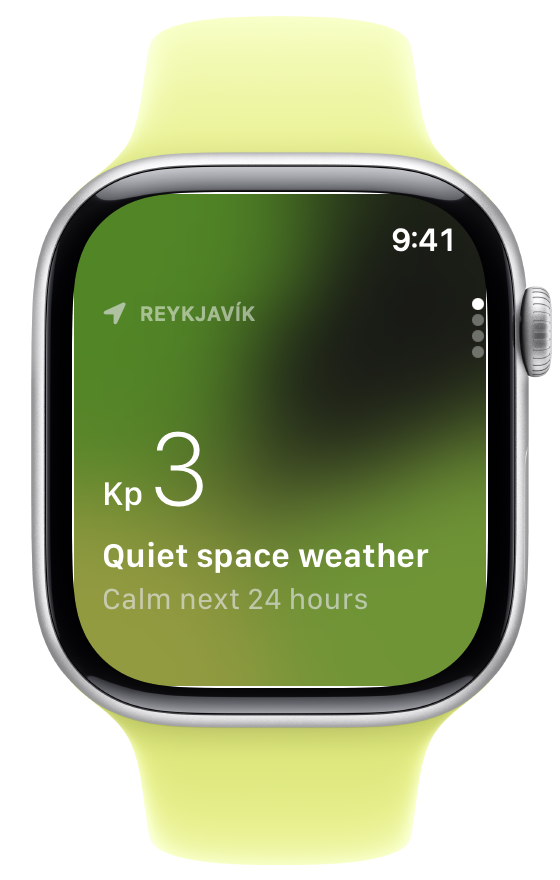
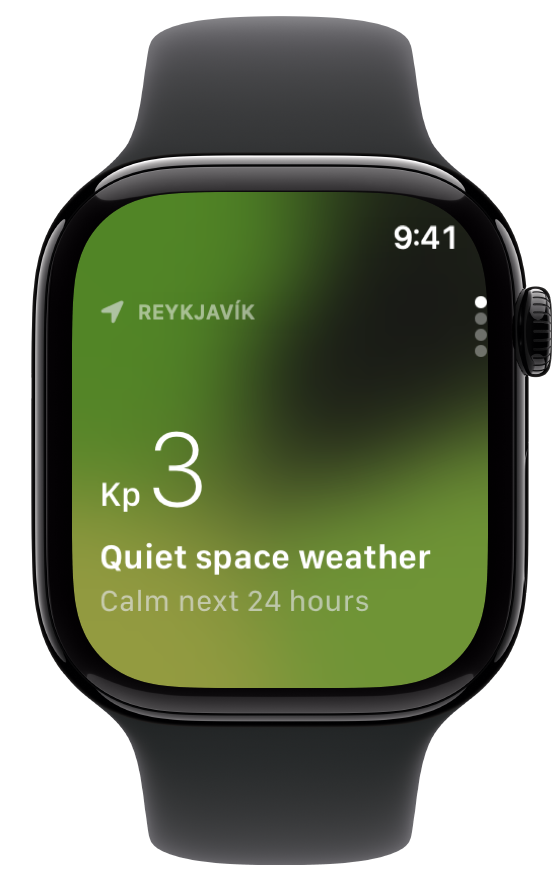
Site: fix a crash in the chat orbs loop (hidden friends were drawn without a time), drawn aurora in the Aurora card instead of NOAA's chart, faster one-by-one orbs, Apple Watch S11 Jet Black with black Sport Band

diff --git a/site.js b/site.js
@@ -365,7 +365,7 @@ const pals = [...document.querySelectorAll(".pal")].map((el, i) => {
   el.innerHTML = '<canvas width="112" height="112"></canvas><svg viewBox="-100 -100 200 200" aria-hidden="true"><path d=""/></svg>';
   const c = BALL[[0, 1, 3, 2][i] ?? 0].map(rgb);
   el.style.setProperty("--g", rgbOf(c[1]));
-  return { el, ctx: el.querySelector("canvas").getContext("2d"), path: el.querySelector("path"), face: new LivingFace(), c, out: new Spring(9, 5.6), t: 5 * i, talk: 0, at: [0.3, 1.35, 2.4, 3.45][i] ?? 1, k: 0, side: i < 2 ? 1 : -1 };
+  return { el, ctx: el.querySelector("canvas").getContext("2d"), path: el.querySelector("path"), face: new LivingFace(), c, out: new Spring(9, 5.6), t: 5 * i, talk: 0, at: [0.3, 0.95, 1.6, 2.25][i] ?? 1, k: 0, side: i < 2 ? 1 : -1 };
 });
 let palsOn = false, palDrawn = 0, palsSince = 0, palPhone = null;
 if (pals.length) {
@@ -429,6 +429,7 @@ function stepPals(dt) {
   if (any && palBall && palDrawn > 0.1) {
     palDrawn = 0;
     for (const p of pals) {
+      if (!(p.k > 0) || p.ct === undefined) { continue; }   // a hidden friend is not drawn (and never breaks the frame)
       palBall.draw({ time: p.ct, energy: 0.1, roll: [0.3 * Math.sin(p.t * 0.31), 0.2 * Math.sin(p.t * 0.23)], cMain: p.c[1], cLow: p.c[3], cMid: p.c[2], cHigh: p.c[0] });
       p.ctx.clearRect(0, 0, 112, 112); p.ctx.drawImage(palBall.canvas, 0, 0, 112, 112);
     }
@@ -802,3 +803,51 @@ live();
 // A slow device must not hold the words back.
 setTimeout(arrived, 4000);
 setInterval(() => { if (!document.hidden) { live(); } }, 5 * 60e3);
+
+
+// ---- The Aurora card: a calm drawn aurora instead of NOAA's chart (Dima, 11-26). Plain 2D canvas, no library:
+// three soft curtains of thin rays (one small gradient picture each, stretched), green into blue, drifting slowly. ----
+(() => {
+  const c = document.querySelector("#auroraart");
+  if (!c) { return; }
+  const ctx = c.getContext("2d"), W = c.width, H = c.height;
+  const ray = (rgb) => {               // one ray: clear at the top, bright low, a quick fade at the bottom edge
+    const s = document.createElement("canvas"); s.width = 1; s.height = 128;
+    const x = s.getContext("2d"), g = x.createLinearGradient(0, 0, 0, 128);
+    g.addColorStop(0, `rgba(${rgb},0)`); g.addColorStop(0.55, `rgba(${rgb},.35)`); g.addColorStop(0.86, `rgba(${rgb},.95)`); g.addColorStop(1, `rgba(${rgb},0)`);
+    x.fillStyle = g; x.fillRect(0, 0, 1, 128); return s;
+  };
+  const bands = [
+    { img: ray("90,255,170"), base: 0.52, amp: 0.07, k: 1.3, sp: 0.045, len: 0.46, a: 0.95 },
+    { img: ray("50,200,255"), base: 0.40, amp: 0.06, k: 2.1, sp: -0.035, len: 0.32, a: 0.7 },
+    { img: ray("150,255,140"), base: 0.62, amp: 0.05, k: 0.9, sp: 0.028, len: 0.36, a: 0.6 }
+  ];
+  const stars = Array.from({ length: 34 }, () => [Math.random() * W, Math.random() * H * 0.7, Math.random() * 1.1 + 0.3, Math.random() * 6.28]);
+  const sky = ctx.createLinearGradient(0, 0, 0, H); sky.addColorStop(0, "#02060f"); sky.addColorStop(0.7, "#061a2b"); sky.addColorStop(1, "#0a2a36");
+  let on = false, last = 0;
+  new IntersectionObserver(([e]) => { on = e.isIntersecting; if (on) { requestAnimationFrame(draw); } }).observe(c);
+  function draw(ms) {
+    if (!on || document.hidden) { return; }
+    requestAnimationFrame(draw);
+    if (ms - last < 40) { return; }                       // 25 frames a second are plenty for a slow sky
+    last = ms;
+    const t = ms / 1000;
+    ctx.globalCompositeOperation = "source-over"; ctx.fillStyle = sky; ctx.fillRect(0, 0, W, H);
+    for (const [x, y, r, p] of stars) { ctx.fillStyle = `rgba(255,255,255,${0.35 + 0.3 * Math.sin(t * 1.3 + p)})`; ctx.fillRect(x, y, r, r); }
+    ctx.globalCompositeOperation = "lighter";
+    for (const b of bands) {
+      for (let x = 0; x < W; x += 2) {
+        const u = x / W;
+        const y = H * (b.base + b.amp * Math.sin(u * b.k * 6.283 + t * b.sp * 6.283) + 0.025 * Math.sin(u * 11 + t * 0.6));
+        const len = H * b.len * (0.8 + 0.2 * Math.sin(u * 7 + t * 0.4));
+        ctx.globalAlpha = b.a * (0.55 + 0.45 * Math.sin(u * 37 + t * 0.9) * Math.sin(u * 13 - t * 0.5));
+        ctx.drawImage(b.img, x, y - len, 2.2, len * 1.08);
+      }
+    }
+    ctx.globalAlpha = 1; ctx.globalCompositeOperation = "source-over";
+    // a dark line of hills at the bottom
+    ctx.fillStyle = "#01040a"; ctx.beginPath(); ctx.moveTo(0, H);
+    for (let x = 0; x <= W; x += 8) { ctx.lineTo(x, H * (0.9 - 0.05 * Math.sin(x / W * 5.5 + 0.6) - 0.025 * Math.sin(x / W * 17))); }
+    ctx.lineTo(W, H); ctx.fill();
+  }
+})();

diff --git a/index.html b/index.html
@@ -27,7 +27,7 @@
   <link rel="icon" type="image/png" sizes="192x192" href="img/favicon-192.png">
   <link rel="apple-touch-icon" href="img/apple-touch-icon.png">
   <script type="application/ld+json">{"@context":"https://schema.org","@graph":[{"@type":"WebSite","@id":"https://heliotide.app/#site","name":"Heliotide","url":"https://heliotide.app/","inLanguage":"en"},{"@type":"MobileApplication","@id":"https://heliotide.app/#app","name":"Heliotide: Space Weather","url":"https://heliotide.app/","image":"https://heliotide.app/img/favicon-512.png","description":"Space weather in plain words: live K-index, solar flares, solar wind, aurora, alerts and earthquakes near you.","operatingSystem":"iOS 18 or later, iPadOS 18 or later","applicationCategory":"WeatherApplication","isAccessibleForFree":true,"offers":{"@type":"Offer","price":"0","priceCurrency":"USD"}}]}</script>
-  <link rel="stylesheet" href="site.css?v=20">
+  <link rel="stylesheet" href="site.css?v=22">
   <noscript><style>.soft, .family .m, [data-write], #hero .intro > *, #hero .show, #bar .word > span { opacity: 1 !important; filter: none !important; transform: none !important; } #status { display: none; }</style></noscript>
 </head>
 <body>
@@ -113,10 +113,10 @@
     <nav aria-label="Pages"><a href="support/">Support</a><a href="privacy/">Privacy Policy</a><a href="sources/">Data Sources</a></nav>
     <p class="love">Made with love in Ukraine <span role="img" aria-label="flag of Ukraine">🇺🇦</span></p>
   </footer>
-  <script src="base.js?v=20"></script>
-  <script src="shaders.js?v=20"></script>
-  <script src="face.js?v=20"></script>
-  <script src="app.js?v=20"></script>
-  <script src="site.js?v=20"></script>
+  <script src="base.js?v=22"></script>
+  <script src="shaders.js?v=22"></script>
+  <script src="face.js?v=22"></script>
+  <script src="app.js?v=22"></script>
+  <script src="site.js?v=22"></script>
 </body>
 </html>

diff --git a/app.js b/app.js
@@ -346,7 +346,7 @@ const CARDS = {
   </div></article>`,
   aurora: `<article class="card s2 c-aurora">${cardHead("aurora", "Aurora")}<div class="cb"><div class="pb">
     <div class="col bottom"><p class="vl"><span>34</span><small>%</small></p><p class="w20">Chance now</p><p class="cn">Look north, away from city lights.</p></div>
-    <div class="pic3 top"><div class="disc sq"><img src="https://services.swpc.noaa.gov/images/animations/ovation/north/latest.jpg" alt="Aurora over the northern hemisphere, live from NOAA" referrerpolicy="no-referrer" loading="lazy" draggable="false"><canvas id="aurorafilm" width="560" height="560" style="opacity:0"></canvas></div></div>
+    <div class="pic3 top"><div class="disc sq"><!-- NOAA's live picture is kept here, switched off (Dima, 11-26): <img src="https://services.swpc.noaa.gov/images/animations/ovation/north/latest.jpg"> --><canvas id="aurorafilm" width="560" height="560" hidden></canvas><canvas id="auroraart" width="320" height="320" role="img" aria-label="Aurora over the night sky"></canvas></div></div>
   </div></div></article>`,
   quakes: `<article class="card s2 c-map">${cardHead("quake", "Earthquakes")}${cmap("quake", 41.8, 50.5, "<i></i><i></i><i></i><b>5.1</b>")}<div class="cb"><div class="words"><p class="w20">2 near you, M4+</p><p class="cn">Closest: M5.1, 160 km away.</p></div></div></article>`,
   fires: `<article class="card s2 c-map">${cardHead("fire", "Wildfires")}${cmap("fire", 64, 30, `<i></i><i></i><b>${icon("fire")}</b>`)}<div class="cb"><div class="words"><p class="w20">2 nearby</p><p class="cn">Closest: 84 km away.</p></div></div></article>`,

diff --git a/site.css b/site.css
@@ -901,3 +901,4 @@ main { overflow-x: clip; }
 @media (max-width: 899px) { #alerts .low { align-self: center; } }
 @media (min-width: 900px), (orientation: landscape) and (min-width: 700px) { #alerts { align-items: start; } #alerts .lead { align-self: center; } }
 .m-watch { --s: 215; }
+#auroraart { position: absolute; inset: 0; width: 100%; height: 100%; display: block; border-radius: 8px; }
